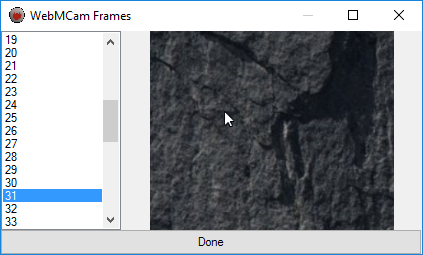
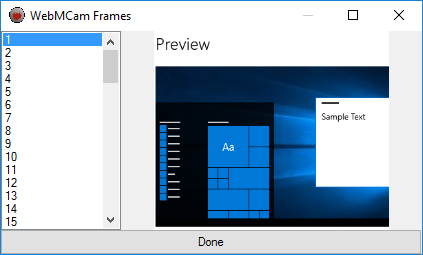
Update Preview
Fix out of bounds error
Update preview images
Update README.md
Remove Average FPS console writeout

diff --git a/FormProcess.cs b/FormProcess.cs
@@ -88,8 +88,6 @@ namespace WebMCam
             info.Arguments = ffmpegArguments.Replace("{output}",
                 string.Format("-y \"{0}\"", outputLocation));
 
-            textBoxData.TextChanged += textBoxData_TextChanged;
-
             process.StartInfo = info;
             process.OutputDataReceived += process_DataReceived;
             process.ErrorDataReceived += process_DataReceived;
@@ -102,6 +100,8 @@ namespace WebMCam
             textBoxData.AppendText(Environment.NewLine);
             textBoxData.AppendText("-");
             textBoxData.AppendText(Environment.NewLine);
+
+            textBoxData.TextChanged += textBoxData_TextChanged;
 
             process.Start();
             process.BeginOutputReadLine();
@@ -135,6 +135,7 @@ namespace WebMCam
         private void textBoxData_TextChanged(object sender, EventArgs e)
         {
             string line = textBoxData.Lines[textBoxData.Lines.Length - 2];
+            Console.WriteLine(line);
             
             if (line.StartsWith("frame=") && framesCount > -1)
             {

diff --git a/Recorder.cs b/Recorder.cs
@@ -200,7 +200,6 @@ class Recorder
     {
         duration += (float).1;
         averageFps = frames / duration;
-        Console.WriteLine(averageFps);
     }
 
     /// <summary>

diff --git a/README.md b/README.md
@@ -12,6 +12,10 @@ https://www.ffmpeg.org/
 
 Capture frames in real-time and save them as WebM.
 
+Hotkeys: (Must run as Administrator)
+* Ctrl+F12 to Record
+* Ctrl+F11 to Pause
+
 <b>Main Form</b><br/>
 ![ScreenShot](https://raw.githubusercontent.com/thetarkus/WebMCam/master/Preview/FormMain.png)
 
